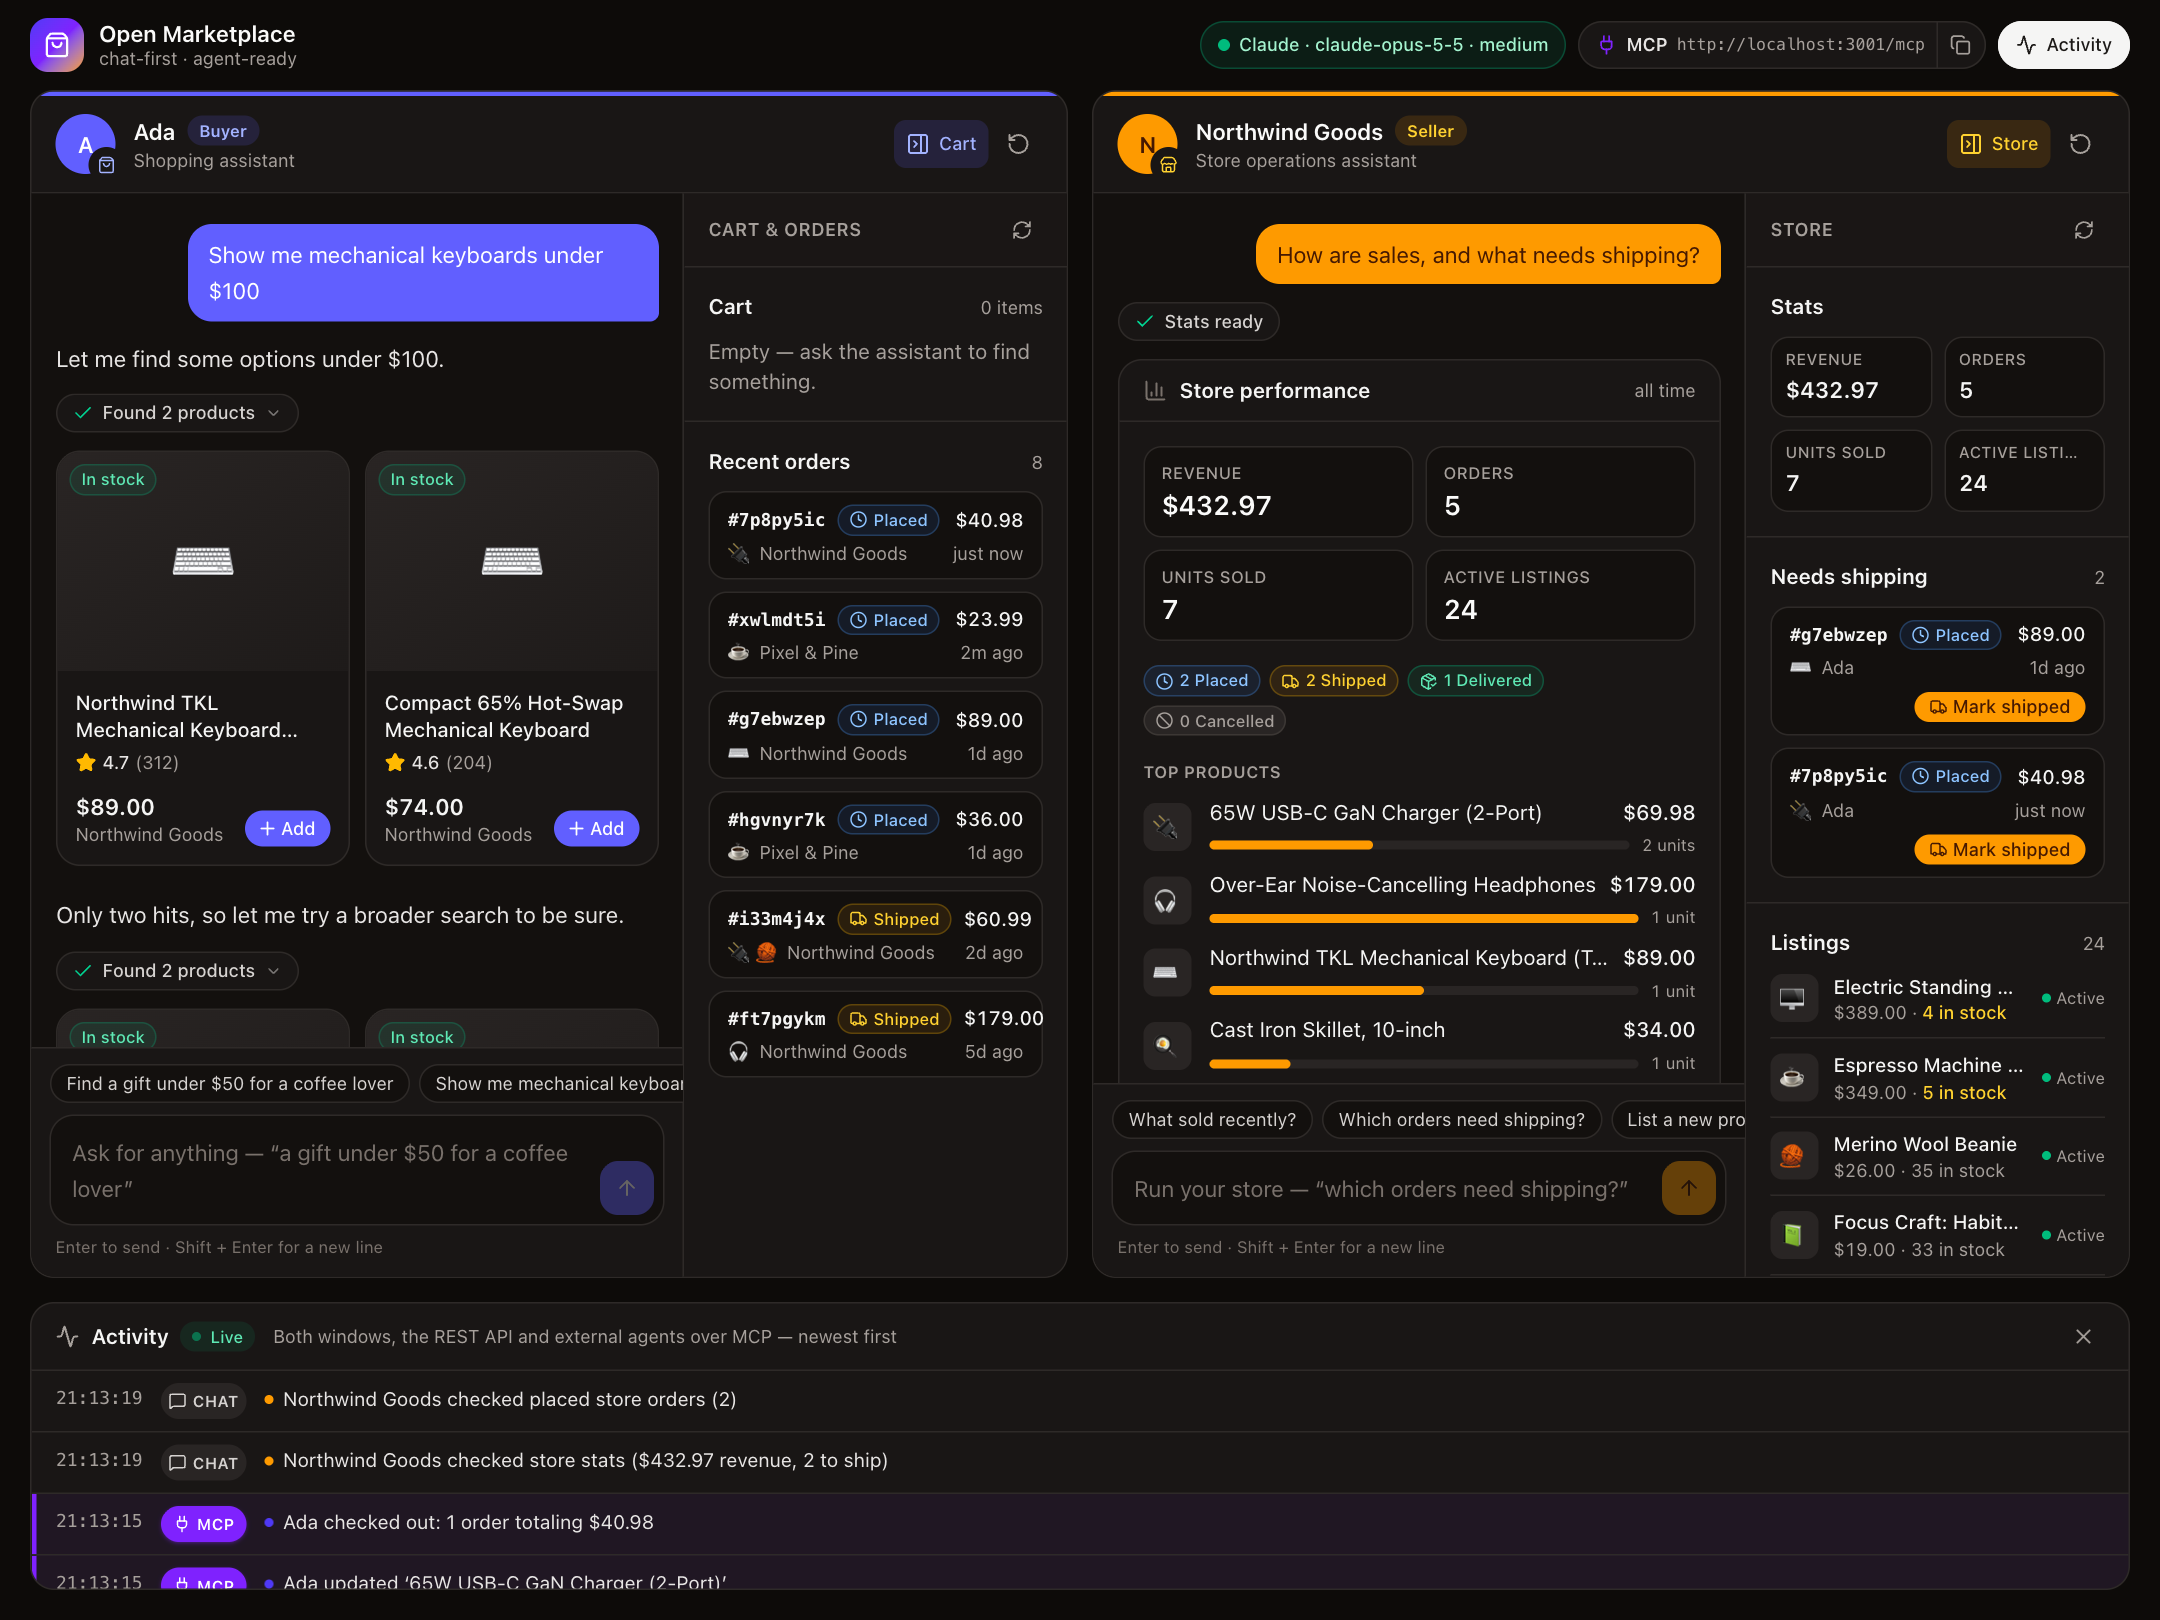
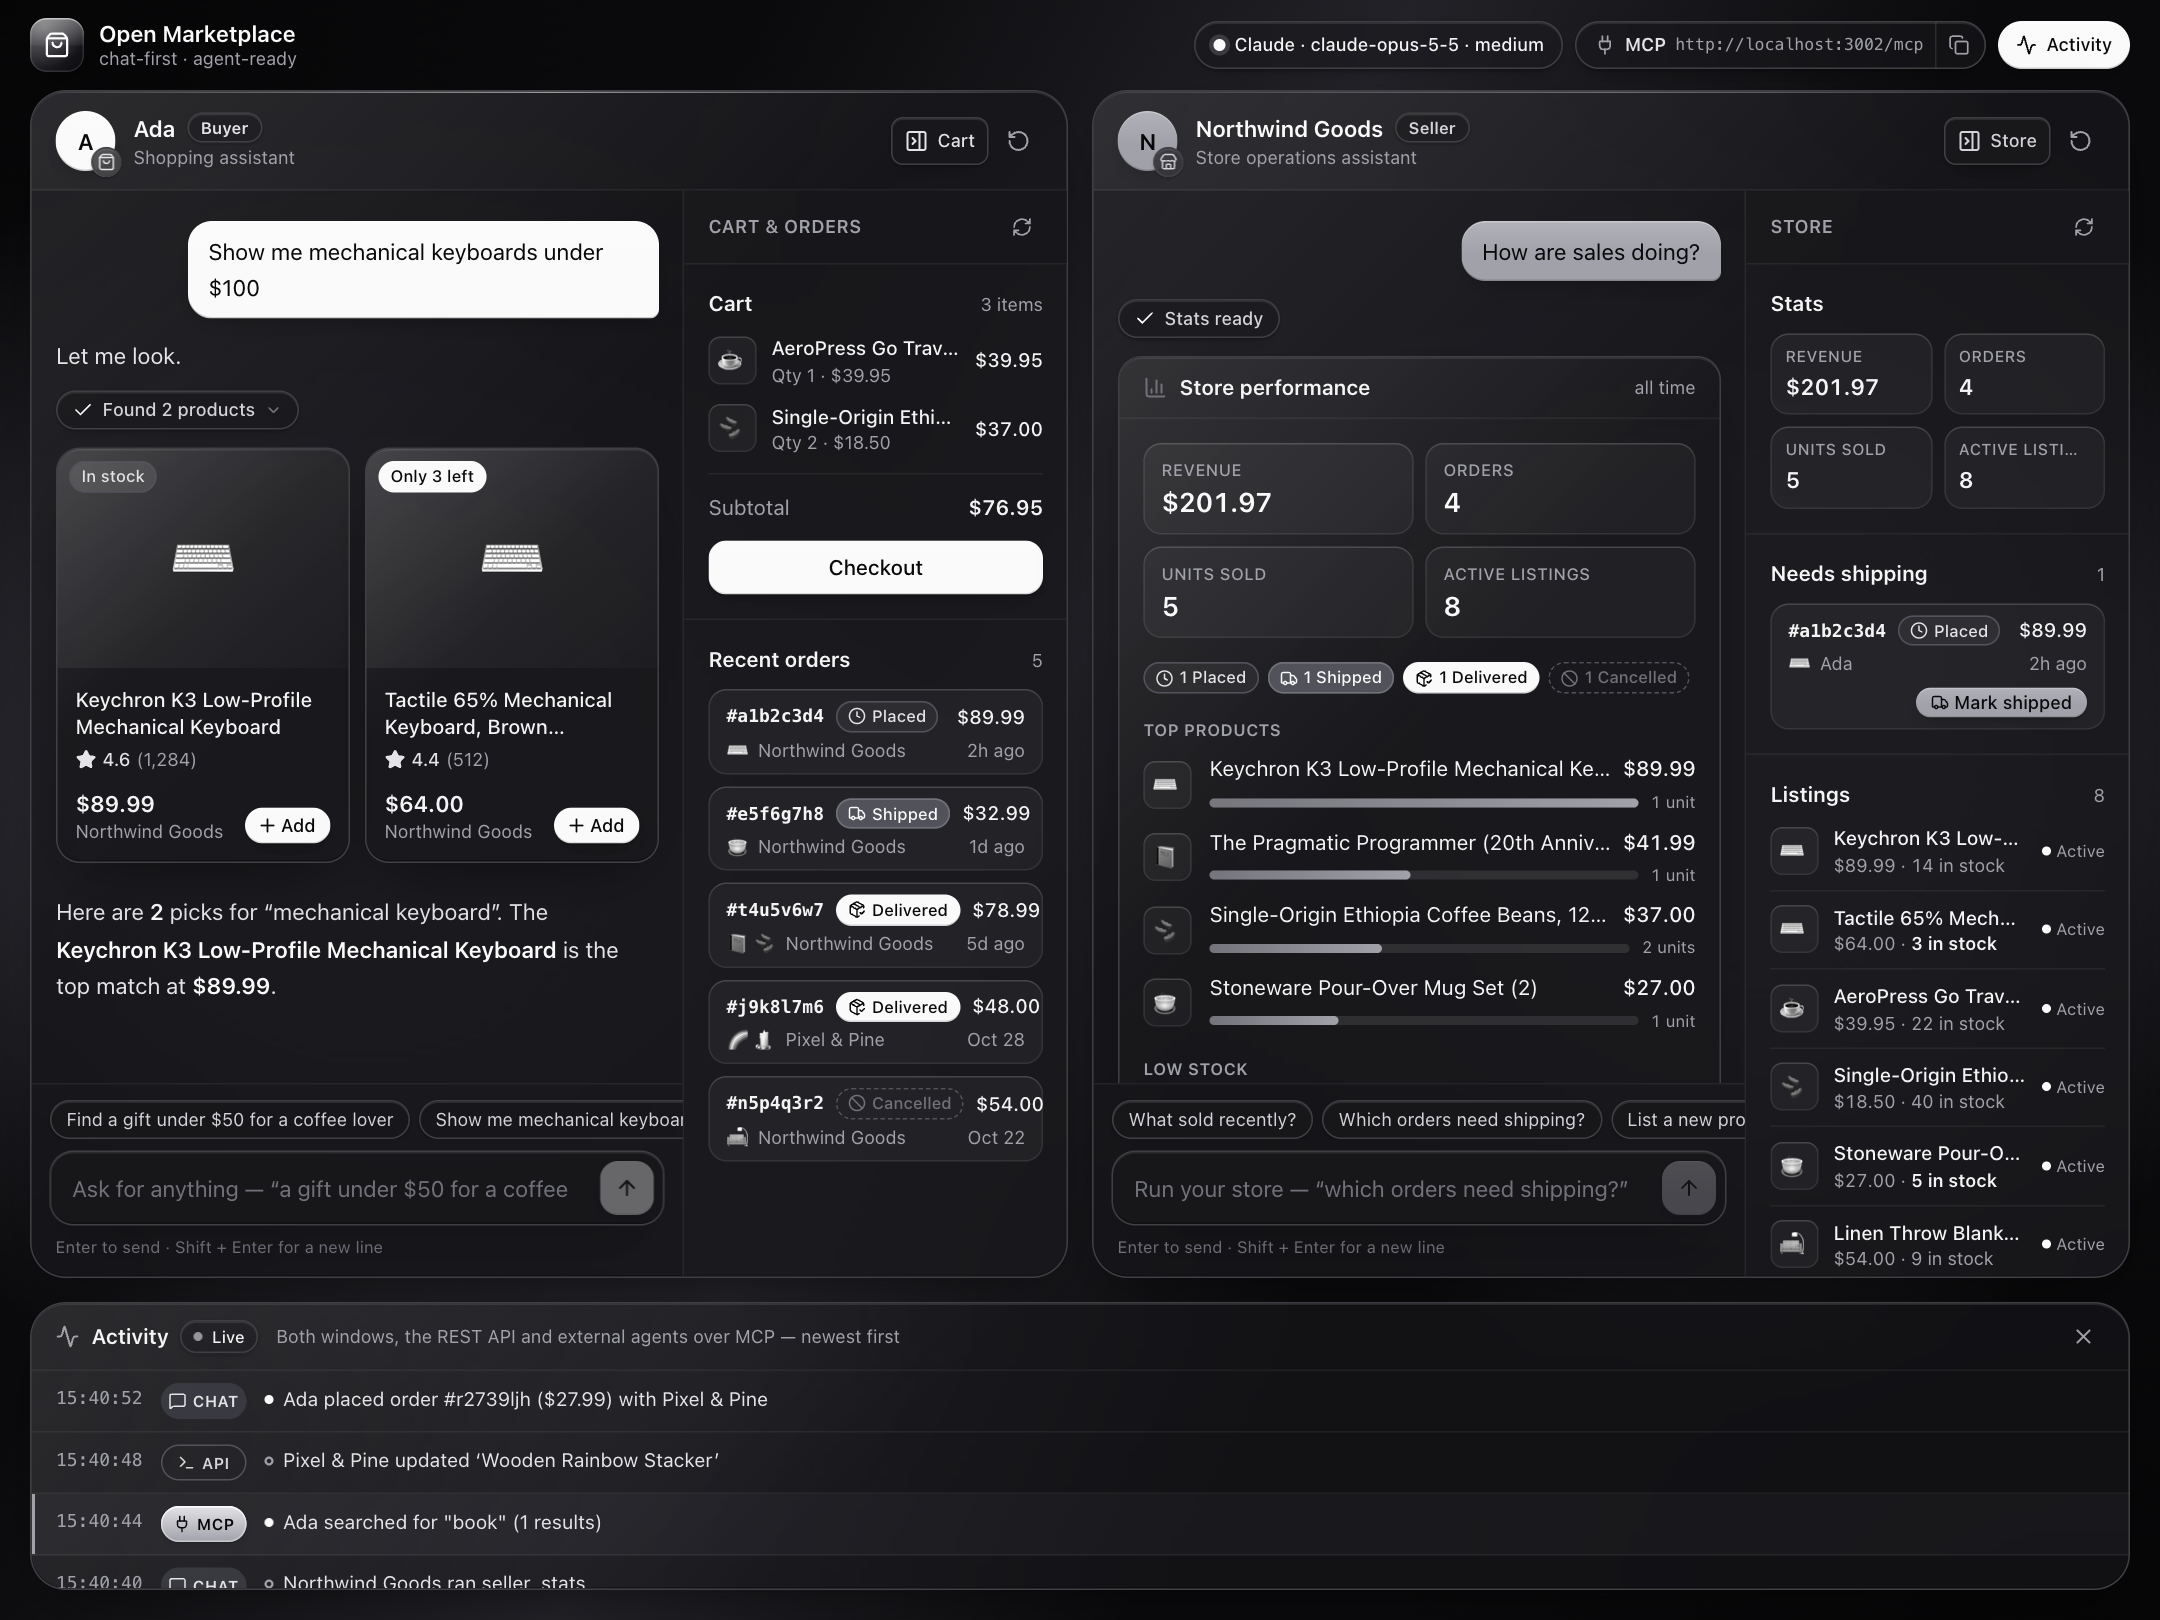
docs: refresh screenshots, badges and changelog for the monotone theme
New light and dark README screenshots of the restyled UI, monotone badge colors, and an Unreleased changelog entry.

diff --git a/README.md b/README.md
@@ -22,11 +22,11 @@
 
 <p align="center">
   <a href="https://github.com/BrandeisPatrick/open-marketplace/actions/workflows/ci.yml"><img src="https://github.com/BrandeisPatrick/open-marketplace/actions/workflows/ci.yml/badge.svg" alt="CI"></a>
-  <a href="https://github.com/BrandeisPatrick/open-marketplace/releases/latest"><img src="https://img.shields.io/github/v/release/BrandeisPatrick/open-marketplace?label=release" alt="Latest release"></a>
-  <a href="LICENSE"><img src="https://img.shields.io/badge/license-MIT-blue.svg" alt="License: MIT"></a>
-  <img src="https://img.shields.io/badge/node-%3E%3D22.13-339933?logo=node.js&logoColor=white" alt="Node.js 22.13 or newer">
-  <a href="https://modelcontextprotocol.io"><img src="https://img.shields.io/badge/MCP-Streamable_HTTP-6b4fbb" alt="MCP: Streamable HTTP"></a>
-  <a href="CONTRIBUTING.md"><img src="https://img.shields.io/badge/PRs-welcome-brightgreen.svg" alt="PRs welcome"></a>
+  <a href="https://github.com/BrandeisPatrick/open-marketplace/releases/latest"><img src="https://img.shields.io/github/v/release/BrandeisPatrick/open-marketplace?label=release&labelColor=27272a&color=52525b" alt="Latest release"></a>
+  <a href="LICENSE"><img src="https://img.shields.io/badge/license-MIT-52525b?labelColor=27272a" alt="License: MIT"></a>
+  <img src="https://img.shields.io/badge/node-%3E%3D22.13-52525b?logo=node.js&logoColor=white&labelColor=27272a" alt="Node.js 22.13 or newer">
+  <a href="https://modelcontextprotocol.io"><img src="https://img.shields.io/badge/MCP-Streamable_HTTP-52525b?labelColor=27272a" alt="MCP: Streamable HTTP"></a>
+  <a href="CONTRIBUTING.md"><img src="https://img.shields.io/badge/PRs-welcome-52525b?labelColor=27272a" alt="PRs welcome"></a>
 </p>
 
 <p align="center">

diff --git a/CHANGELOG.md b/CHANGELOG.md
@@ -8,6 +8,8 @@ The format is based on [Keep a Changelog](https://keepachangelog.com/en/1.1.0/),
 
 ### Changed
 
+- The web UI moved to a monotone, liquid-glass look: a neutral palette with no hues, frosted glass surfaces with specular highlights over a slowly drifting backdrop, and tonal status badges. Behavior is unchanged.
+- The logo is now a dark glass mark; the favicon, README screenshots, badges and social preview image follow it.
 - The README is shorter and feature-led, with a logo header and a documentation table, following the style of other open-source commerce projects.
 - Reference material moved from the README into guides under `docs/`: getting started, MCP, tools, architecture, and configuration and scripts, indexed in `docs/README.md`.
 - Contributions now use Conventional Commits for commit messages and pull request titles.
